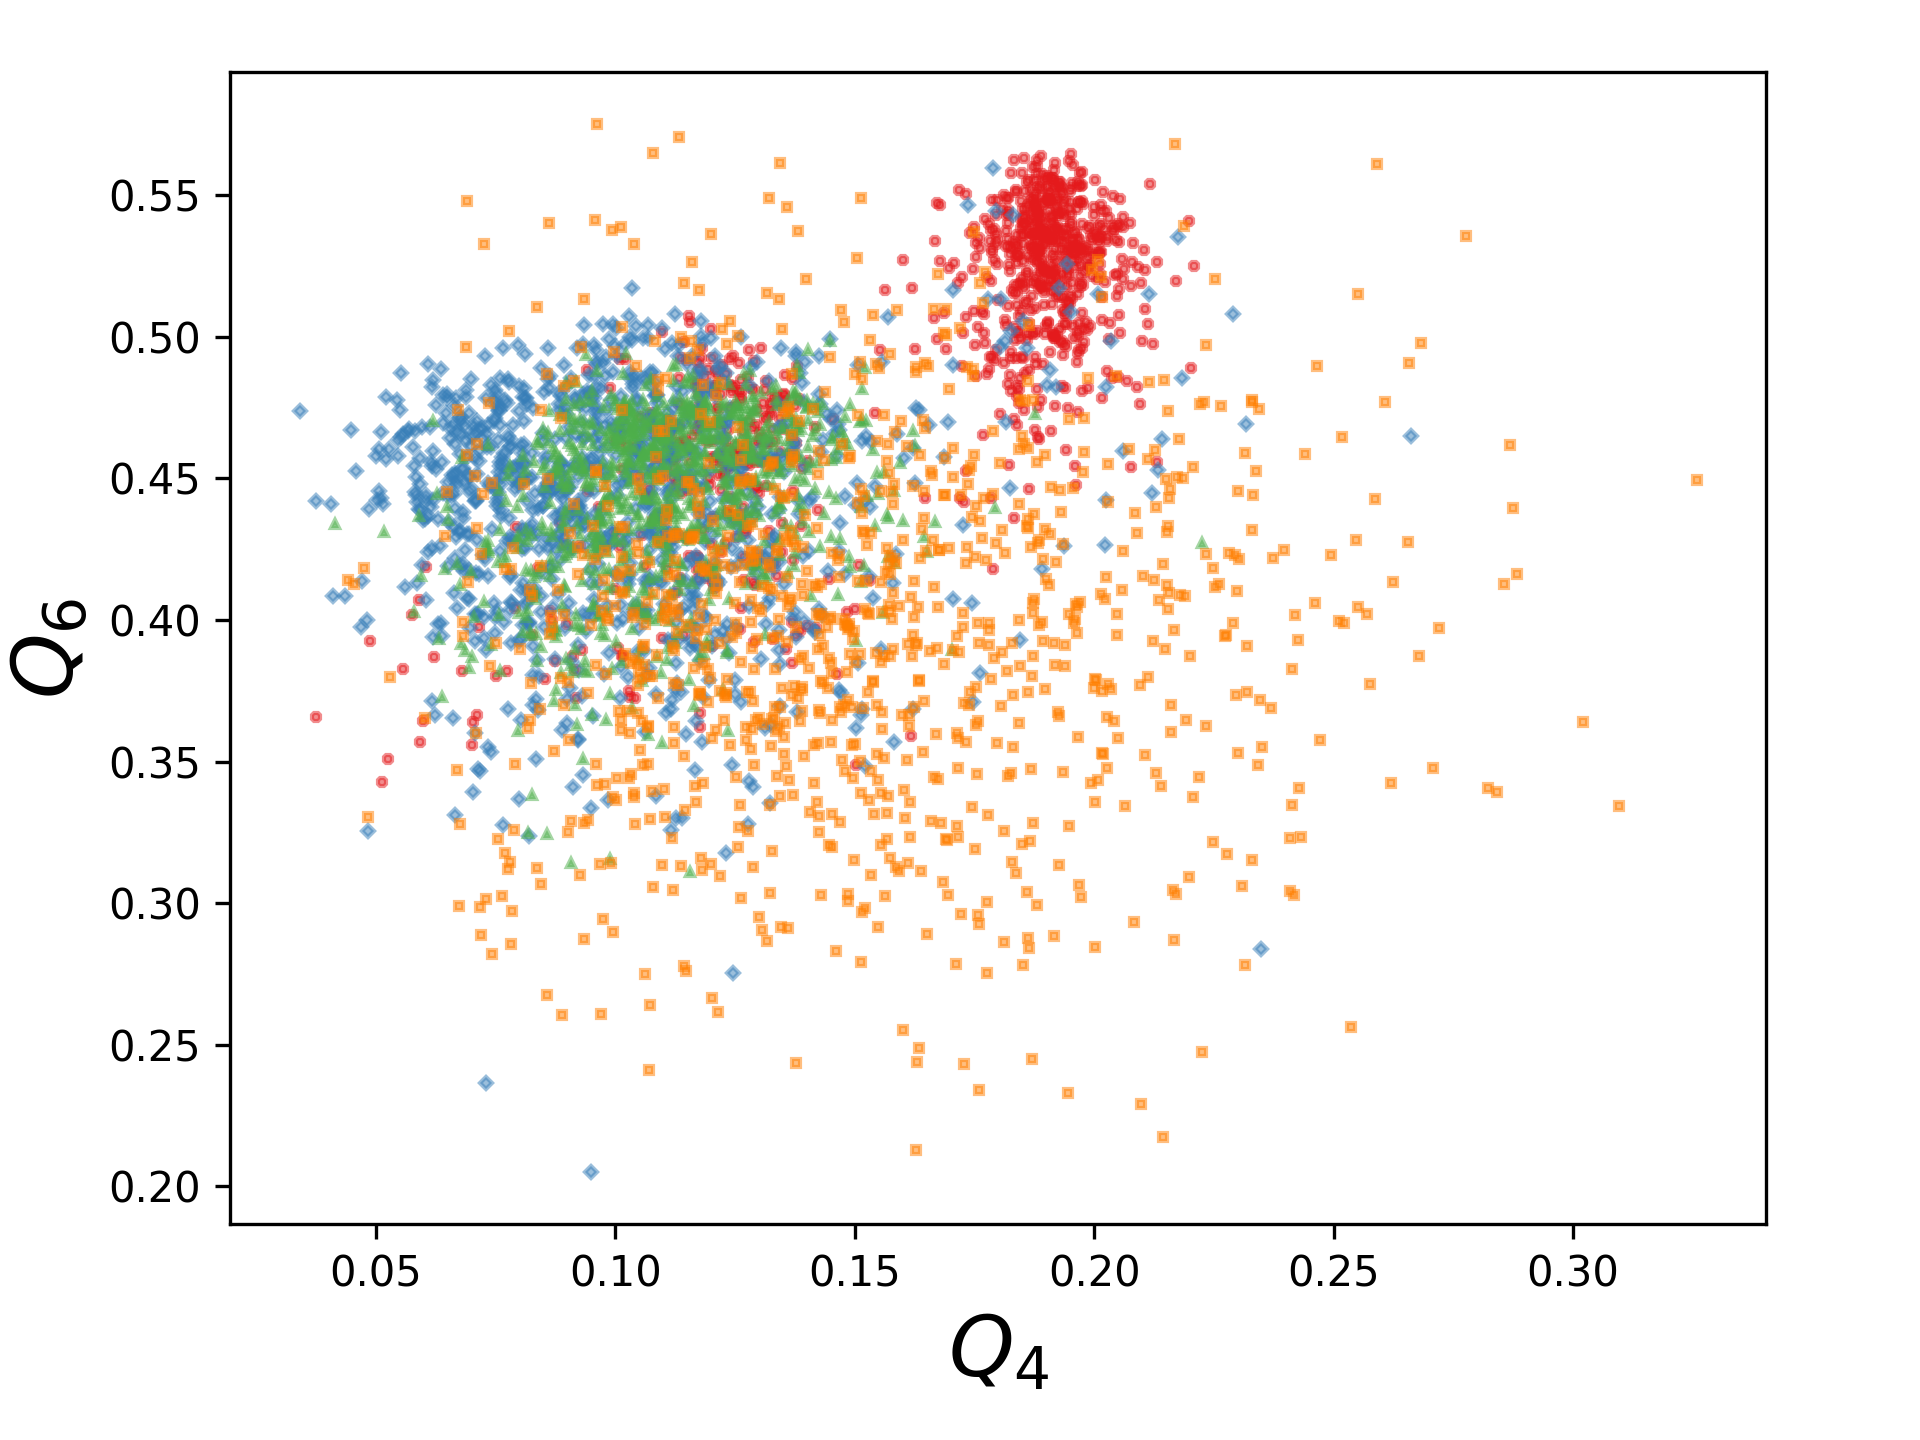
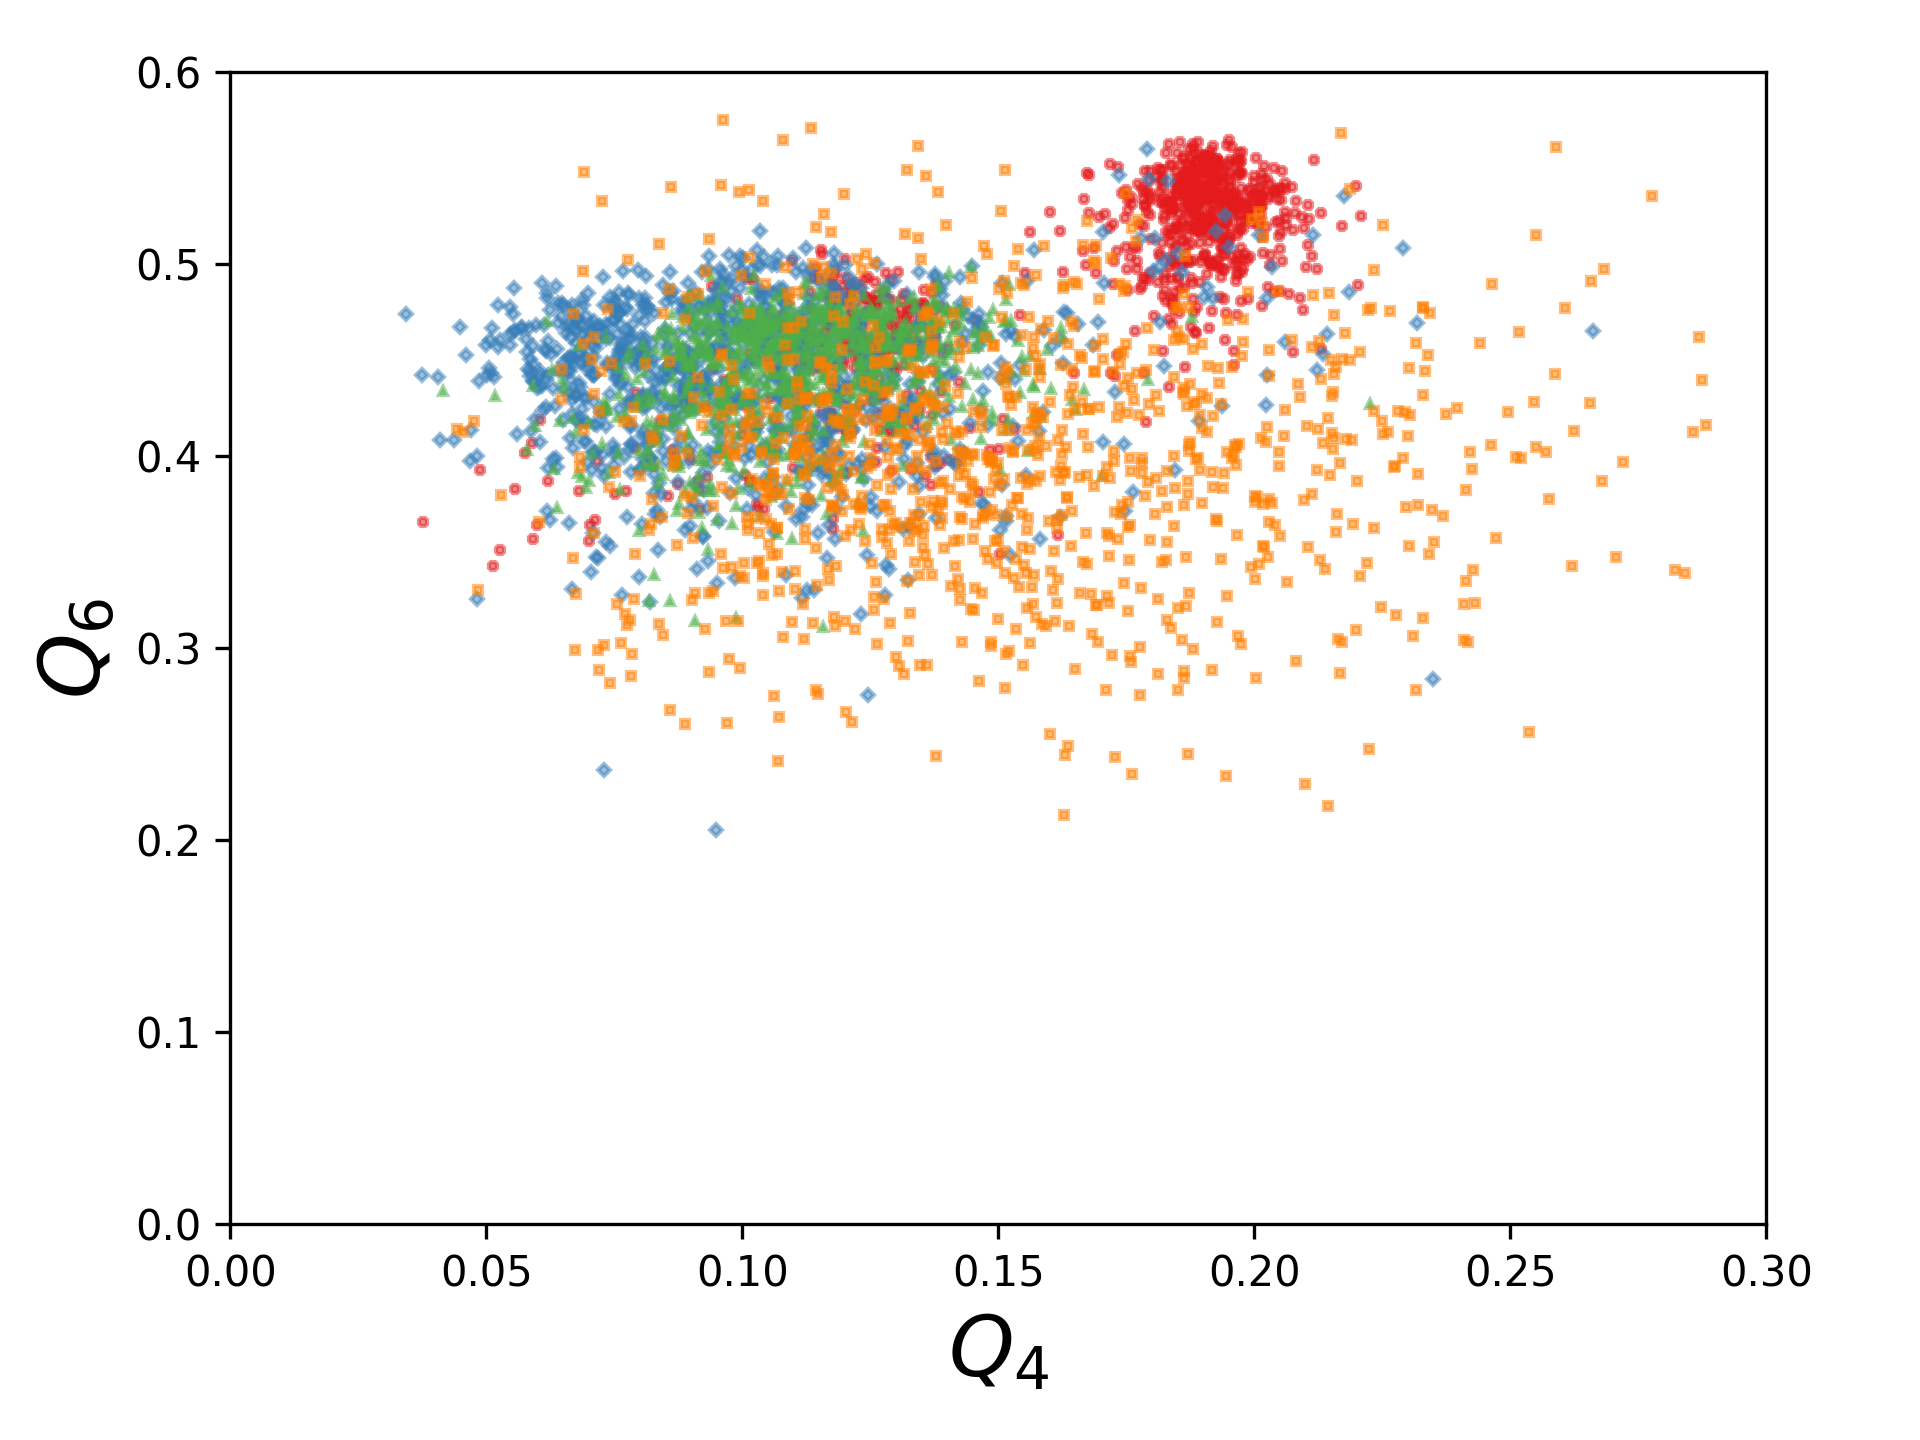
changed axes scale

diff --git a/post_processing/01_plot_Q_vs_Q.py b/post_processing/01_plot_Q_vs_Q.py
@@ -59,6 +59,9 @@ plt.close()
 fig = plt.figure()
 ax  = fig.add_axes([0.12,0.15,0.8,0.8])
 
+ax.set_xlim(left=0, right=.3, emit=False)
+ax.set_ylim(bottom=0, top=.6, emit=False)
+
 # Plot.
 for y, Q_name in enumerate(Q_names):
   Q = loadtxt(Q_path.format(Q_name))
@@ -83,7 +86,7 @@ for li in range(N):
     ax  = fig.add_axes([dL0_x+li*L, dL0_y+lj*L, dL, dL])
     for y, Q_name in enumerate(Q_names):
       Q = loadtxt(Q_path.format(Q_name))
-      ax.plot(Q[:,li], Q[:,lj], marker[y], c=c[y], ms=2)
+      ax.plot(Q[:,li], Q[:,lj], marker[y], c=c[y], ms=2, alpha=.5)
 #      ax.plot(Q0[y,li], Q0[y,lj], marker[y], c='k', ms=6)
     ax.set_xticklabels([])
     ax.set_yticklabels([])
